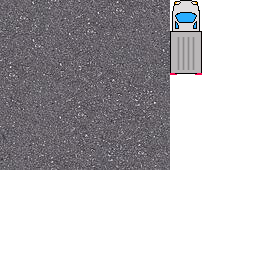
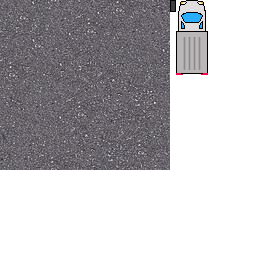
Partial Car definition (unused)

Changed region(s): [[0.6562, 0.0, 0.8125, 0.3125]]

diff --git a/project/Car/Car.cpp b/project/Car/Car.cpp
@@ -1,0 +1,75 @@
+#include "Car.hpp"
+#include "PhysicsComponent.hpp"
+#include "SpriteComponent.hpp"
+
+Tire::Tire(GameObject *gameObject)
+{
+    this->gameObject = gameObject;
+    auto s = gameObject->addComponent<SpriteComponent>();
+    phys = gameObject->addComponent<PhysicsComponent>();
+    phys->initBox(b2_dynamicBody, {6, 12}, {3, 6}, 1);
+    phys->setSensor(true);
+}
+
+void Tire::setCharacteristics(float maxForwardSpeed, float maxBackwardSpeed, float maxDriveForce, float maxLateralImpulse, float maxTorque)
+{
+    this->maxForwardSpeed = maxForwardSpeed;
+    this->maxBackwardSpeed = maxBackwardSpeed;
+    this->maxDriveForce = maxDriveForce;
+    this->maxLateralImpulse = maxLateralImpulse;
+    this->maxTorque = maxTorque;
+}
+
+void Tire::updateTurn(Control control)
+{
+    float desiredTorque = 0;
+    switch (control & (C_LEFT | C_RIGHT))
+    {
+    case C_LEFT:
+        desiredTorque = maxTorque;
+        break;
+    case C_RIGHT:
+        desiredTorque = -maxTorque;
+        break;
+    default:; // nothing
+    }
+    phys->addTorque(desiredTorque);
+}
+
+void Tire::updateDrive(Control control)
+{
+}
+
+Car::Car(GameObject *gameObject, GameObject tireObjects[4])
+{
+    this->gameObject = gameObject;
+    phys = gameObject->addComponent<PhysicsComponent>();
+    phys->initBox(b2_dynamicBody, {20, 50}, {10, 25}, 1);
+    phys->setAngularDamping(3);
+
+    float maxForwardSpeed = 250;
+    float maxBackwardSpeed = -40;
+    float backTireMaxDriveForce = 300;
+    float frontTireMaxDriveForce = 500;
+    float backTireMaxLateralImpulse = 8.5;
+    float frontTireMaxLateralImpulse = 7.5;
+    float maxTorque = 15;
+
+    b2RevoluteJointDef jointDef;
+    jointDef.enableLimit = true;
+    jointDef.lowerAngle = 0;
+    jointDef.upperAngle = 0;
+    jointDef.localAnchorB.SetZero(); // center of tire
+
+    // back left tire
+    auto tire = std::make_shared<Tire>(tireObjects[0]);
+    tire->setCharacteristics(maxForwardSpeed, maxBackwardSpeed, backTireMaxDriveForce, backTireMaxLateralImpulse, maxTorque);
+    jointDef.localAnchorA.Set(-3, 0.75);
+    phys->initJoint(tire->gameObject->getComponent<PhysicsComponent>(), &jointDef);
+
+    // back right tire
+    auto tire = std::make_shared<Tire>(tireObjects[1]);
+    tire->setCharacteristics(maxForwardSpeed, maxBackwardSpeed, backTireMaxDriveForce, backTireMaxLateralImpulse, maxTorque);
+    jointDef.localAnchorA.Set(3, 0.75);
+    phys->initJoint(tire->gameObject->getComponent<PhysicsComponent>(), &jointDef);
+}

diff --git a/project/Car/PhysicsComponent.cpp b/project/Car/PhysicsComponent.cpp
@@ -22,6 +22,11 @@ PhysicsComponent::~PhysicsComponent()
         body->DestroyFixture(fixture);
         fixture = nullptr;
     }
+    if (world != nullptr && joint != nullptr)
+    {
+        world->DestroyJoint(joint);
+        joint = nullptr;
+    }
     if (world != nullptr && body != nullptr)
     {
         world->DestroyBody(body);
@@ -35,15 +40,25 @@ void PhysicsComponent::addImpulse(glm::vec2 impulse)
     body->ApplyLinearImpulse(iForceV, body->GetWorldCenter(), true);
 }
 
+void PhysicsComponent::addAngularImpulse(float impulse)
+{
+    body->ApplyAngularImpulse(impulse, true);
+}
+
+float PhysicsComponent::getAngularVelocity()
+{
+    return body->GetAngularVelocity();
+}
+
 void PhysicsComponent::addForce(glm::vec2 force)
 {
     b2Vec2 forceV{force.x, force.y};
     body->ApplyForce(forceV, body->GetWorldCenter(), true);
 }
 
-void PhysicsComponent::addAngularImpulse(float radianImpulse)
+void PhysicsComponent::addTorque(float torque)
 {
-    body->ApplyAngularImpulse(radianImpulse, true);
+    body->ApplyTorque(torque, true);
 }
 
 glm::vec2 PhysicsComponent::getLinearVelocity()
@@ -60,6 +75,16 @@ void PhysicsComponent::setLinearVelocity(glm::vec2 velocity)
         body->SetAwake(true);
     }
     body->SetLinearVelocity(v);
+}
+
+float PhysicsComponent::getIntertia()
+{
+    return body->GetInertia();
+}
+
+void PhysicsComponent::setAngularDamping(float angularDamping)
+{
+    body->SetAngularDamping(angularDamping);
 }
 
 void PhysicsComponent::initCircle(b2BodyType type, float radius, glm::vec2 center, float density)
@@ -100,6 +125,14 @@ void PhysicsComponent::initBox(b2BodyType type, glm::vec2 size, glm::vec2 center
     fixture = body->CreateFixture(&fxD);
 
     CarGame::instance->registerPhysicsComponent(this);
+}
+
+void PhysicsComponent::initJoint(std::shared_ptr<PhysicsComponent> other, b2JointDef *jointDef)
+{
+    assert(other->joint == nullptr);
+    jointDef->bodyA = this->body;
+    jointDef->bodyB = other->body;
+    other->joint = world->CreateJoint(jointDef);
 }
 
 bool PhysicsComponent::isSensor()

diff --git a/project/Car/CarController.cpp b/project/Car/CarController.cpp
@@ -4,6 +4,7 @@
 
 #include <SDL_events.h>
 #include <iostream>
+#include "glm/gtc/matrix_transform.hpp"
 #include "CarController.hpp"
 #include "GameObject.hpp"
 #include "SpriteComponent.hpp"
@@ -52,17 +53,25 @@ void CarController::onCollisionEnd(PhysicsComponent *comp)
 {
 }
 
-#define SPEED 20
+#define SPEED 10
 
 void CarController::update(float deltaTime)
 {
     auto phys = gameObject->getComponent<PhysicsComponent>();
-    if (forward)
-        phys->addForce({0, SPEED * deltaTime});
-    if (backwards)
-        phys->addForce({0, -SPEED * deltaTime});
+    auto oldVel = phys->getLinearVelocity();
+    auto newVel = glm::vec2(oldVel);
+    if (newVel == glm::vec2({0, 0}))
+        newVel = glm::vec2({0, 1});
+    // if (forward)
+    //     newVel += SPEED * 1.05 * deltaTime;
+    // if (backwards)
+    //     newVel -= SPEED * 1.05 * deltaTime;
     if (left)
-        phys->addAngularImpulse(-SPEED * deltaTime);
+        newVel = glm::rotate(glm::mat4(1), SPEED * deltaTime, {0, 0, 1}) * glm::vec4(newVel, 0, 1);
     if (right)
-        phys->addAngularImpulse(SPEED * deltaTime);
+        newVel = glm::rotate(glm::mat4(1), -SPEED * deltaTime, {0, 0, 1}) * glm::vec4(newVel, 0, 1);
+    // phys->addTorque(-SPEED * deltaTime);
+    std::cout << glm::sin(newVel.x) << "\n";
+    phys->setLinearVelocity(newVel);
+    gameObject->setRotation(newVel.g);
 }

diff --git a/project/Car/PhysicsComponent.hpp b/project/Car/PhysicsComponent.hpp
@@ -4,6 +4,7 @@
 #include "Box2D/Collision/Shapes/b2PolygonShape.h"
 #include "Box2D/Collision/Shapes/b2CircleShape.h"
 #include "Box2D/Dynamics/b2Body.h"
+#include "Box2D/Dynamics/Joints/b2RevoluteJoint.h"
 #include "Component.hpp"
 
 class PhysicsComponent : public Component
@@ -13,14 +14,23 @@ public:
     virtual ~PhysicsComponent();
     void initCircle(b2BodyType type, float radius, glm::vec2 center, float density);
     void initBox(b2BodyType type, glm::vec2 size, glm::vec2 center, float density);
+    void initJoint(std::shared_ptr<PhysicsComponent> other, b2JointDef *jointDef);
 
     void addForce(glm::vec2 force); // Force gradually affects the velocity over time
 
     void addImpulse(glm::vec2 impulse); // Instantly affects velocity
 
+    void addAngularImpulse(float impulse);
+
+    float getAngularVelocity();
+
+    float getIntertia();
+
     void setLinearVelocity(glm::vec2 velocity);
 
-    void addAngularImpulse(float radianImpulse);
+    void setAngularDamping(float anglularDamping);
+
+    void addTorque(float torque);
 
     glm::vec2 getLinearVelocity();
 
@@ -34,6 +44,7 @@ private:
     b2Body *body = nullptr;
     b2Shape::Type shapeType;
     b2Fixture *fixture = nullptr;
+    b2Joint *joint = nullptr;
     b2BodyType rbType;
     std::vector<PhysicsComponent *> collidingBodies;
     b2World *world = nullptr;

diff --git a/project/Car/Car.hpp b/project/Car/Car.hpp
@@ -1,0 +1,44 @@
+#pragma once
+#include "GameObject.hpp"
+
+enum Control
+{
+    C_UP = 0b0001,
+    C_LEFT = 0b0010,
+    C_DOWN = 0b0100,
+    C_RIGHT = 0b1000,
+};
+
+class Tire
+{
+public:
+    explicit Tire(GameObject *gameObject);
+    void setCharacteristics(float maxForwardSpeed, float maxBackwardSpeed, float maxDriveForce, float maxLateralImpulse, float maxTorque);
+    void updateFriction();
+    void updateDrive(Control control);
+    void updateTurn(Control control);
+
+private:
+    GameObject *gameObject;
+    std::shared_ptr<PhysicsComponent> phys;
+    float maxForwardSpeed;
+    float maxBackwardSpeed;
+    float maxDriveForce;
+    float maxLateralImpulse;
+    float currentTraction;
+    float maxTorque;
+    friend class Car;
+};
+
+class Car
+{
+public:
+    explicit Car(GameObject *gameObject, GameObject tireObjects[4]);
+
+private:
+    GameObject *gameObject;
+    std::shared_ptr<PhysicsComponent> phys;
+    std::vector<std::shared_ptr<Tire>> tires;
+    std::shared_ptr<b2RevoluteJoint> flJoint;
+    std::shared_ptr<b2RevoluteJoint> frJoint;
+};

diff --git a/project/Car/CarGame.cpp b/project/Car/CarGame.cpp
@@ -74,7 +74,9 @@ void CarGame::init()
     // auto anim = carObj->addComponent<SpriteAnimationComponent>();
     auto phys = carObj->addComponent<PhysicsComponent>();
     phys->initCircle(b2_dynamicBody, 10 / physicsScale, {carObj->getPosition().x / physicsScale, carObj->getPosition().y / physicsScale}, 1);
-    auto birdC = carObj->addComponent<CarController>();
+    phys->body->SetAngularDamping(3);
+
+    auto carC = carObj->addComponent<CarController>();
 
     // vector<Sprite> spriteAnim({spriteAtlas->get("bird1.png"), spriteAtlas->get("bird2.png"), spriteAtlas->get("bird3.png"), spriteAtlas->get("bird2.png")});
     // for (auto &s : spriteAnim)
